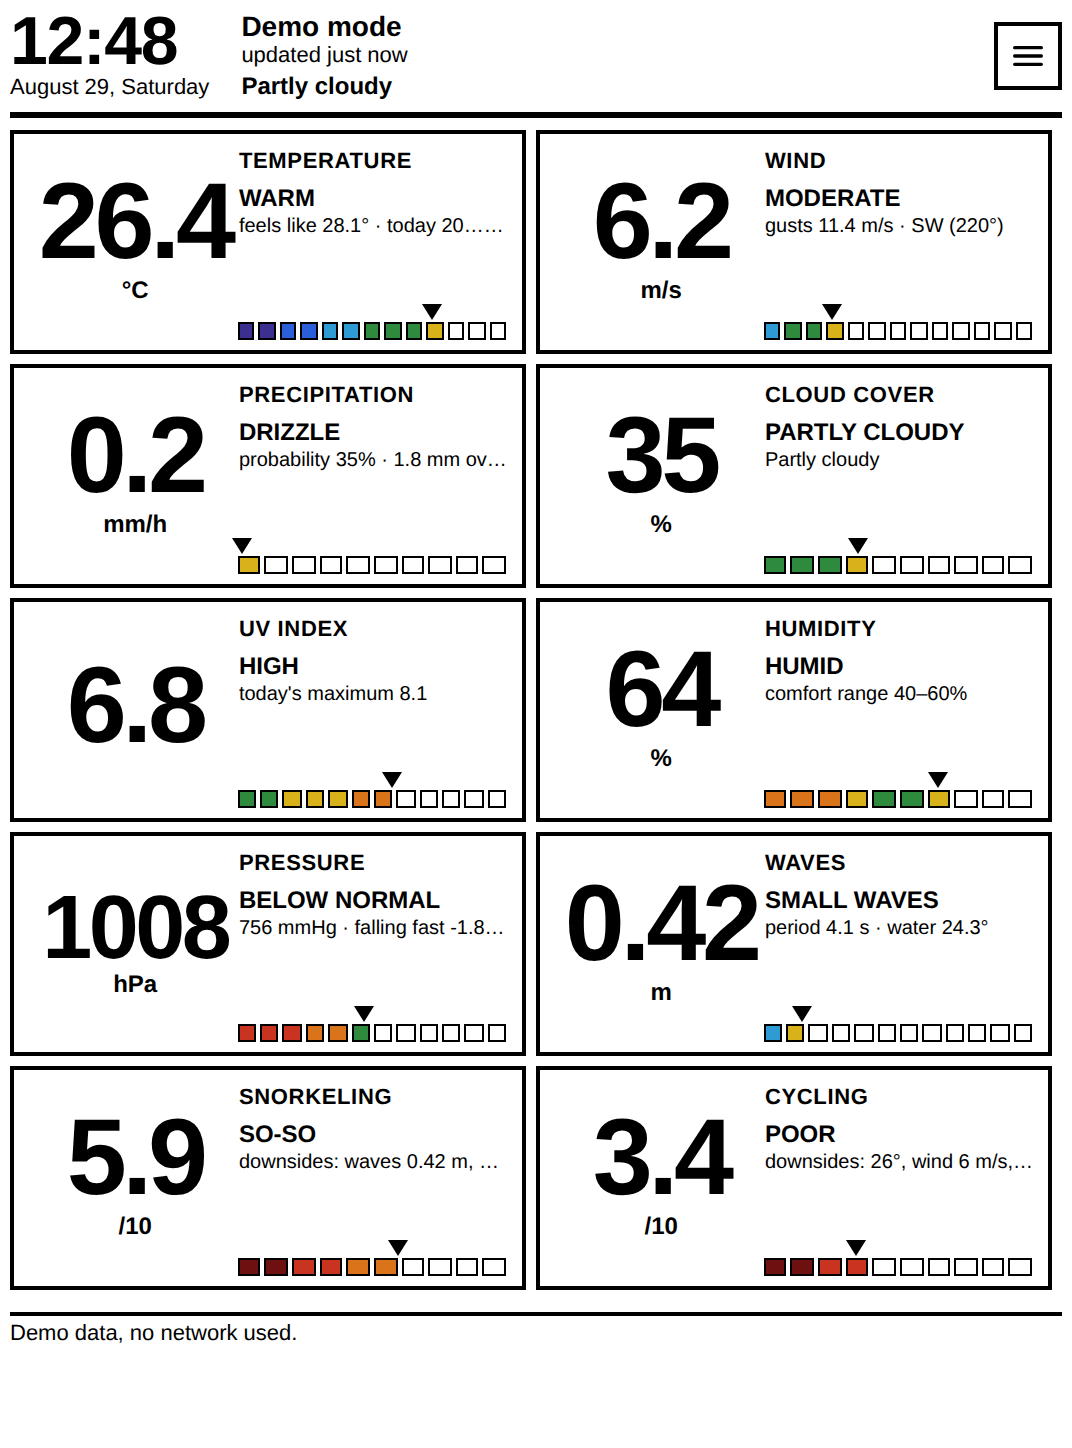
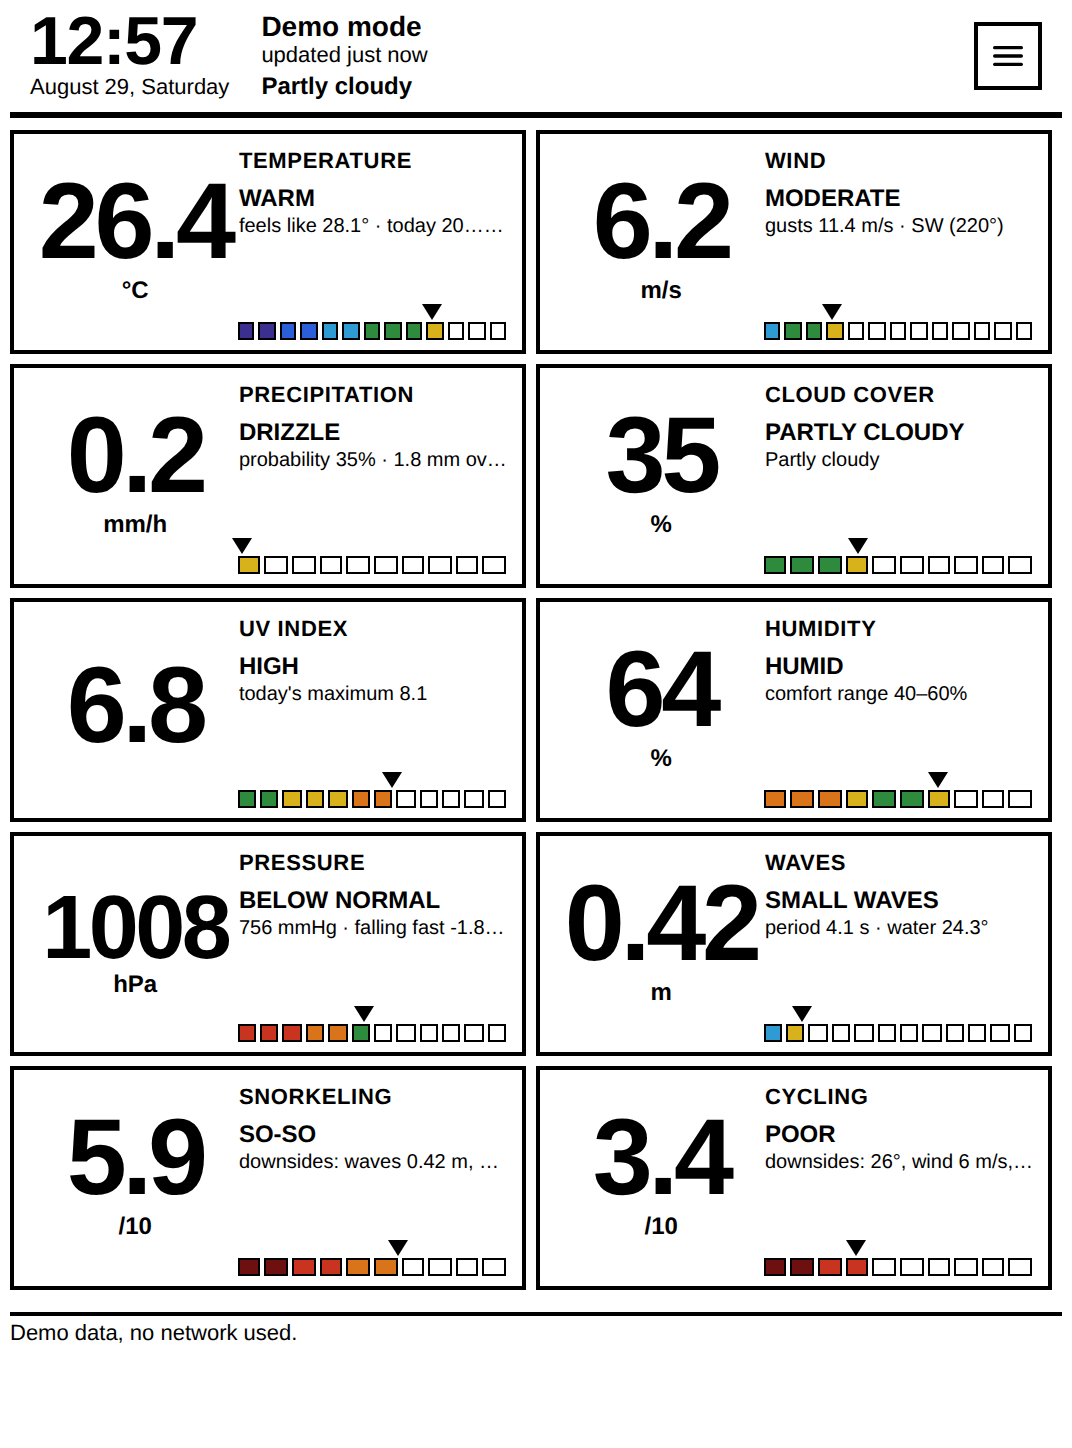
Keep the menu button beside the clock and pad the top bar
On a phone the top bar wrapped and dropped the menu button onto its own line
under the clock. The row no longer wraps: clock left, place in the middle,
button hard right, with the place block shrinking and clipping instead. The row
also gets horizontal padding of its own in every design, so the clock and the
button are not flush against the screen edges.

Claude-Session: https://claude.ai/code/session_013SbFinGuhw9MJ6FtXFwKse

Changed region(s): [[0.0, 0.0, 0.4002, 0.0932], [0.8927, 0.0, 1.0, 0.0622]]

diff --git a/css/base.css b/css/base.css
@@ -14,15 +14,20 @@ button, input { font-family: inherit; font-size: inherit; }
 
 .app { max-width: 1100px; margin: 0 auto; padding: 10px 10px 24px 10px; }
 
-/* ---- header ---- */
-.topbar { display: flex; flex-wrap: wrap; align-items: flex-end; }
+/* ---- header ----
+   One line, always: clock left, place in the middle, menu hard right. The row
+   never wraps, so on a phone the button stays beside the clock instead of
+   dropping underneath it; the place block shrinks and clips instead. */
+.topbar { display: flex; flex-wrap: nowrap; align-items: flex-end; padding: 0 6px; }
 .clock-block { flex: 0 0 auto; margin-right: 16px; }
 .clock { font-weight: 700; letter-spacing: -0.02em; }
-.date { }
-.place-block { flex: 1 1 160px; min-width: 0; }
-.place { font-weight: 700; overflow: hidden; text-overflow: ellipsis; white-space: nowrap; }
-.updated, .cond { }
-.tools { flex: 0 0 auto; display: flex; flex-wrap: wrap; }
+.date { white-space: nowrap; }
+.place-block { flex: 1 1 auto; min-width: 0; }
+.place, .updated, .cond {
+  overflow: hidden; text-overflow: ellipsis; white-space: nowrap;
+}
+.place { font-weight: 700; }
+.tools { flex: 0 0 auto; margin-left: auto; display: flex; }
 
 .btn {
   display: inline-block; margin: 3px 0 3px 6px; padding: 8px 12px;

diff --git a/css/theme-paper.css b/css/theme-paper.css
@@ -5,7 +5,7 @@
 body[data-theme="paper"] { background: #f6f3ec; color: #1d1b16; }
 body[data-theme="paper"] .app { max-width: 760px; padding: 12px 12px 28px 12px; }
 
-body[data-theme="paper"] .topbar { border-bottom: 1px solid #cfc7b6; padding-bottom: 8px; align-items: center; }
+body[data-theme="paper"] .topbar { border-bottom: 1px solid #cfc7b6; padding: 0 10px 8px 10px; align-items: center; }
 body[data-theme="paper"] .clock { font-size: 40px; line-height: 1; letter-spacing: -0.04em; }
 body[data-theme="paper"] .date { font-size: 12px; color: #6d6553; letter-spacing: 0.04em; text-transform: uppercase; }
 body[data-theme="paper"] .place { font-size: 16px; letter-spacing: 0.02em; }

diff --git a/css/theme-tiles.css b/css/theme-tiles.css
@@ -7,7 +7,7 @@
 body[data-theme="tiles"] { background: #ffffff; color: #000000; }
 body[data-theme="tiles"] .app { padding: 4px 5px 8px 5px; }
 
-body[data-theme="tiles"] .topbar { border-bottom: 3px solid #000; padding-bottom: 4px; align-items: center; }
+body[data-theme="tiles"] .topbar { border-bottom: 3px solid #000; padding: 0 10px 4px 10px; align-items: center; }
 body[data-theme="tiles"] .clock { font-size: 34px; line-height: 1; }
 body[data-theme="tiles"] .date { font-size: 11px; }
 body[data-theme="tiles"] .place { font-size: 14px; }

diff --git a/css/theme-night.css b/css/theme-night.css
@@ -5,7 +5,7 @@ body[data-theme="night"] { background: #0b0f14; color: #e8eef5; }
 body[data-theme="night"] .app { padding: 14px 12px 28px 12px; }
 
 body[data-theme="night"] .topbar {
-  background: #131a22; border-radius: 18px; padding: 14px 16px; align-items: center;
+  background: #131a22; border-radius: 18px; padding: 14px 18px; align-items: center;
 }
 body[data-theme="night"] .clock { font-size: 46px; line-height: 1; color: #ffffff; }
 body[data-theme="night"] .date { font-size: 13px; color: #8ea0b5; margin-top: 4px; }

diff --git a/css/theme-eink.css b/css/theme-eink.css
@@ -5,7 +5,7 @@
 body[data-theme="eink"] { background: #ffffff; color: #000000; }
 body[data-theme="eink"] .app { padding-top: 6px; }
 
-body[data-theme="eink"] .topbar { border-bottom: 4px solid #000; padding-bottom: 6px; }
+body[data-theme="eink"] .topbar { border-bottom: 4px solid #000; padding: 0 10px 6px 10px; }
 body[data-theme="eink"] .clock { font-size: 54px; line-height: 1; }
 body[data-theme="eink"] .date { font-size: 15px; margin-top: 2px; }
 body[data-theme="eink"] .place { font-size: 20px; }

diff --git a/js/app.js b/js/app.js
@@ -11,7 +11,7 @@
   var HOUR = 60 * 60 * 1000;
   /* Shown in the Place panel: on a full-screen browser it is the only way to
      tell whether a new build actually arrived. Bump it with every release. */
-  var APP_VERSION = '2026.08.29-3';
+  var APP_VERSION = '2026.08.29-4';
 
   var settings = Store.load();
   var demoMode = /[?&]demo=1/.test(location.search);
